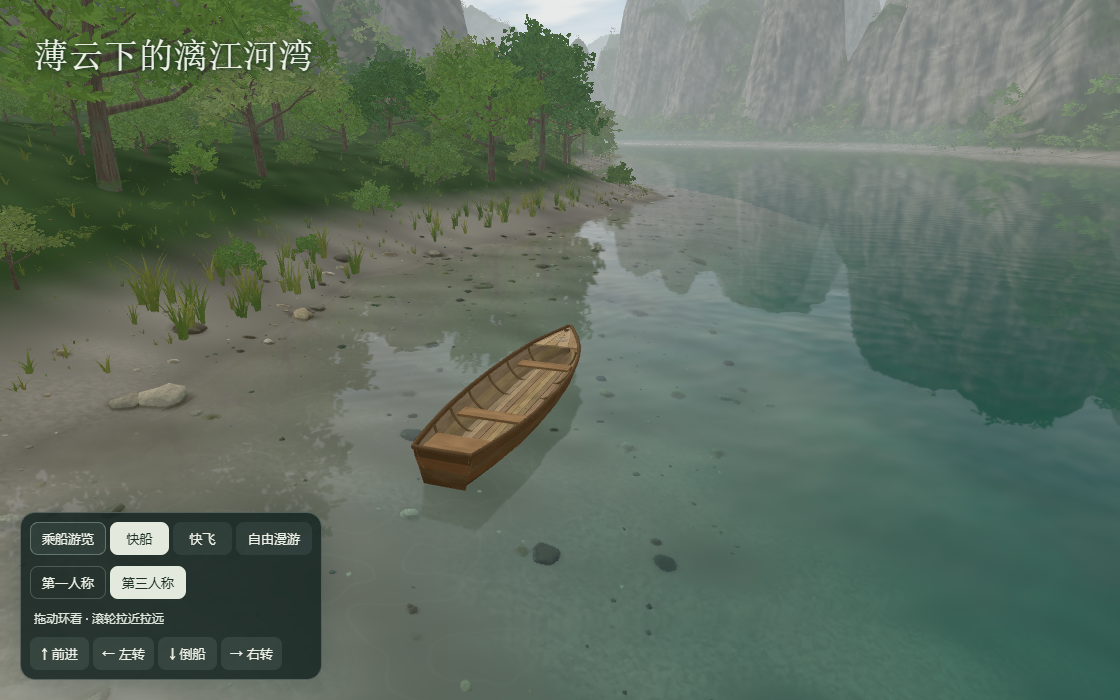
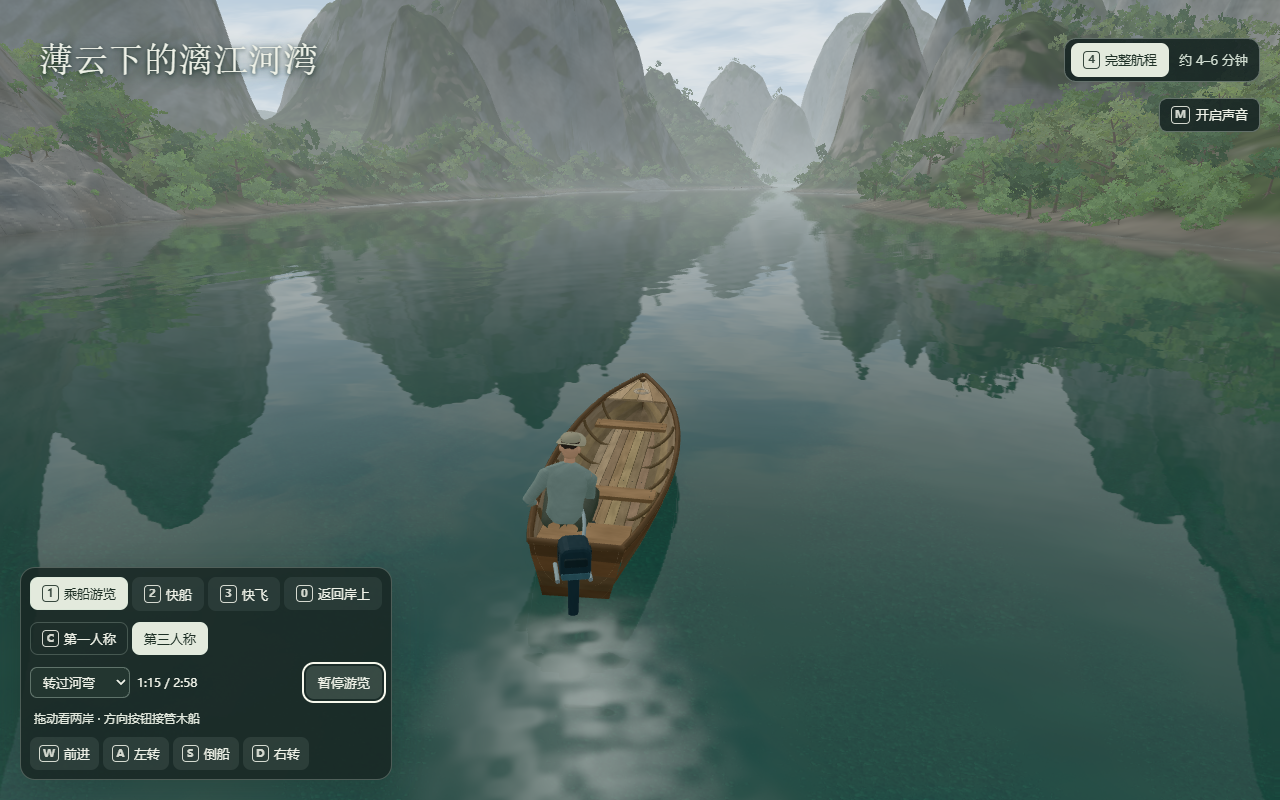
Record the verified Lijiang Pages release

diff --git a/projects/0033-lijiang-river-bend/publication/index.html b/projects/0033-lijiang-river-bend/publication/index.html
@@ -59,7 +59,7 @@
           </figcaption>
         </figure>
         <figure class="scene-card">
-          <img src="./assets/boat-follow.png" alt="第三人称跟随行驶中的船只，水面留下连续尾流" width="1120" height="700" loading="lazy">
+          <img src="./assets/boat-follow.png" alt="第三人称跟随木船，船夫坐在船尾，水面留下连续尾流" width="1280" height="800" loading="lazy">
           <figcaption>
             <h3>掌舵再回望</h3>
             <p>船身、驾驶员与尾流连续。靠岸后进入飞行巡航，空中仍能用同一河弯和岩岸辨认来路。</p>
@@ -91,6 +91,11 @@
           <h3>连贯的岸、水、空体验</h3>
           <blockquote>继续，先把 4–6 分钟的完整航程串起来。从岸上登船，经过浅滩和岩壁，中途能接管木船，到宽湾靠岸后再飞起来，回看刚才经过的河段。</blockquote>
           <p>验收从干岸开始，经过登船、同船接管与恢复、靠泊、步行和空中回望。桌面与触屏视口跑完整航程，默认模拟时长约 4 分 31 秒。</p>
+        </article>
+        <article>
+          <h3>统一薄云下的光照与水色</h3>
+          <blockquote>航程串起来了，继续把画面做得像实拍吧。先统一整条航程的薄云光照、山雾和水面倒影，重点解决飞机回望时山形和岩面纹理太重复的问题，还是用纯代码生成。</blockquote>
+          <p>浅滩、岩壁和空中机位使用同一套天光与空气透视。固定机位对照山体轮廓、材质尺度和倒影，再重跑岸、水、空的引导航程。</p>
         </article>
         <article>
           <h3>高空视角暴露的远景边缘</h3>

diff --git a/README.md b/README.md
@@ -26,7 +26,7 @@
 | 14 | `0028` | [创作 Skill · 输入、约束与我们的价值](projects/0028-creator-skill-mechanisms/README.md) | 拆解五套创作 Skill 的输入、处理、输出与约束机制，理解哪些规则、样本和校验值得沉淀为我们自己的方法。 | 研究中 | [参考来源](https://x.com/liyuuuing/status/2121507172580475003) · [演示](https://yydshly.github.io/20261115_codex_project/demos/0028-creator-skill-mechanisms/) |
 | 15 | `0031` | [创作工具总览 · 15库效果、价值与选用](projects/0031-creative-tools-hub/README.md) | 把15项创作库的效果、分工与实测放在一起，按短片、口播、三维和网页任务选工具，沉淀可复用的方法与验证依据。 | 已验证 | [参考来源](https://x.com/fuji_ai_/status/2121898699374911862) · [演示](https://yydshly.github.io/20261115_codex_project/demos/0031-creative-tools-hub/) |
 | 16 | `0034` | [OpenStreetMap 与蛇口城市原型](projects/0034-openstreetmap-shekou/README.md) | 研究 OpenStreetMap 如何提供真实地理布局和路网，并用深圳蛇口验证从城区骨架到驾驶、停车、下车、让行与步行入场的完整路线。 | 已验证 | [参考来源](https://www.openstreetmap.org/about) · [演示](https://yydshly.github.io/20261115_codex_project/demos/0034-openstreetmap-shekou/) |
-| 17 | `0033` | [薄云下的漓江河湾](projects/0033-lijiang-river-bend/README.md) | 从「薄云下的漓江河湾」的写实提示出发，以纯代码生成可步行、开船和快飞的喀斯特河谷，在约 4 分半的连续航程里体验浅水、岩棚、倒影、环境声和远山雾，并图解三种技术的分工与复用价值。 | 已验证 | [原仓库](https://github.com/yydshly/20261115_codex_project) |
+| 17 | `0033` | [薄云下的漓江河湾](projects/0033-lijiang-river-bend/README.md) | 从「薄云下的漓江河湾」的写实提示出发，以纯代码生成可步行、开船和快飞的喀斯特河谷，在约 4 分半的连续航程里体验浅水、岩棚、倒影、环境声和远山雾，并图解三种技术的分工与复用价值。 | 已验证 | [原仓库](https://github.com/yydshly/20261115_codex_project) · [演示](https://yydshly.github.io/20261115_codex_project/demos/0033-lijiang-river-bend/) |
 
 ## 项目图览
 
@@ -320,7 +320,7 @@ Three.js 组织场景和相机，GLSL 计算动态材质、反射与大气，程
 
 本次生成的 1720 × 1872 导览图原件，标注 Demo 实际截图与同机位高斯开关对照，点击打开原图。
 
-[进入研究](projects/0033-lijiang-river-bend/README.md) · [原仓库](https://github.com/yydshly/20261115_codex_project)
+[进入研究](projects/0033-lijiang-river-bend/README.md) · [原仓库](https://github.com/yydshly/20261115_codex_project) · [在线网页](https://yydshly.github.io/20261115_codex_project/demos/0033-lijiang-river-bend/)
 
 <!-- PROJECTS:END -->
 

diff --git a/projects/0033-lijiang-river-bend/publication.md b/projects/0033-lijiang-river-bend/publication.md
@@ -15,3 +15,16 @@ python projects/0033-lijiang-river-bend/scripts/build.py
 ```
 
 输出包括 `dist/index.html`、`dist/play/index.html` 和 `dist/assets/rendering-guide.png`。完整站点构建与上线地址回填方式见[总库发布约定](../../docs/deployment.md)。
+
+## 首次公开部署与验收
+
+- [研究页](https://yydshly.github.io/20261115_codex_project/demos/0033-lijiang-river-bend/)
+- [可玩场景](https://yydshly.github.io/20261115_codex_project/demos/0033-lijiang-river-bend/play/)
+- [导览图原件](https://yydshly.github.io/20261115_codex_project/demos/0033-lijiang-river-bend/assets/rendering-guide.png)
+- [发布 PR #24](https://github.com/yydshly/20261115_codex_project/pull/24)，合并提交 `1bcde249c330bd3777e8bc8b772801aaaab5b0f9`。[Pages 构建与部署](https://github.com/yydshly/20261115_codex_project/actions/runs/44767775229)成功。
+
+公网确认研究总览、项目首页、可玩场景、主程序、Three.js、Reflector 和导览图均返回 HTTP 200。总导航链接到该页面与原图，导览图 SHA-256 与生成原件相同，在线主程序与发布源码一致。
+
+首次上线之前，在 Chromium SwiftShader 的桌面及 390 像素触屏视口实测 WebGL 2、启停完整航程、八个游览章节、贴岸定位、快船与快飞、两种视角和声音开关，未观察到浏览器控制台、网络或 WebGL 错误。四分半岸、水、空全程来自此前的 Chromium 场景回归，真机长时性能与上游河道末端截边见[项目说明](README.md#验证范围)。
+
+公网桌面 Chromium 复测通过。读者可从总导航进入研究页及导览图，再从首页开启 Demo、开始和退出完整航程、选择贴岸章节，并操作快船、快飞、视角与声音开关。未观察到浏览器控制台、网络或 WebGL 错误。

diff --git a/projects/0033-lijiang-river-bend/README.md b/projects/0033-lijiang-river-bend/README.md
@@ -1,5 +1,7 @@
 # 0033 · 薄云下的漓江河湾
 
+[公开研究页](https://yydshly.github.io/20261115_codex_project/demos/0033-lijiang-river-bend/) · [直接进入可玩 Demo](https://yydshly.github.io/20261115_codex_project/demos/0033-lijiang-river-bend/play/) · [发布与验收记录](publication.md)
+
 从「薄云下的漓江河湾」提示词出发，用 Three.js、GLSL 和程序化三维高斯泼溅做成可步行、开船和快飞的原创喀斯特河谷。约 4 分半的引导航程把登船、浅滩、贴岸岩壁、靠泊和空中回望串在一起。沿中心线可探索约 1.50 公里河道，视野中的上下游河道约 2.06 公里。这个小样展示了如何复用一套地形、光照和水深规则，做出能从不同高度连续观察的浏览器场景。
 
 [![漓江技术导览图，包含木船和飞机实测画面、浅滩标注、同机位高斯开关对照及渲染流程](assets/rendering-guide.png)](assets/rendering-guide.png)
